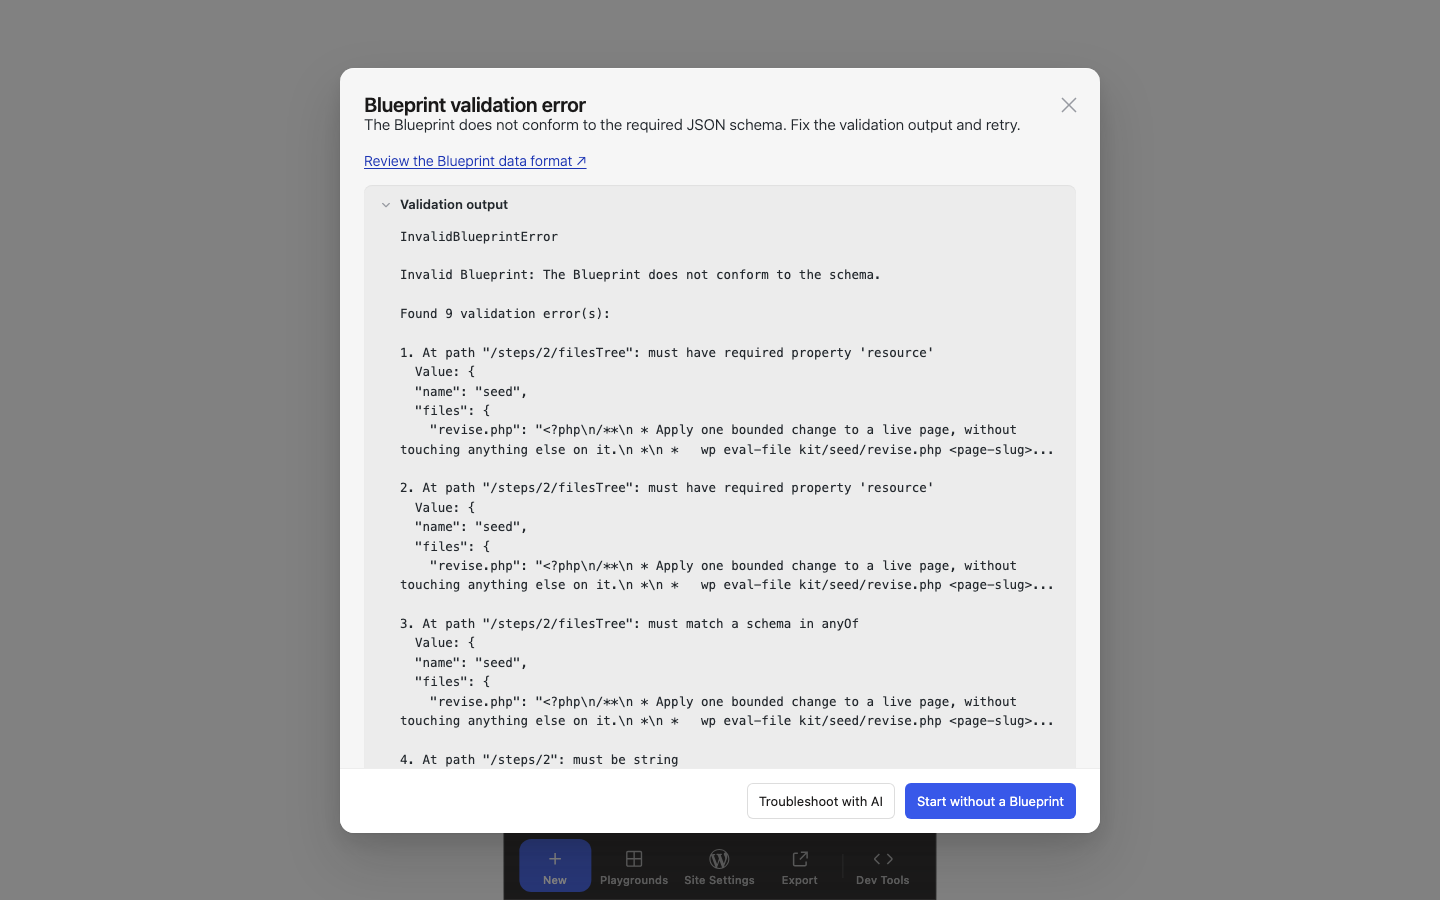
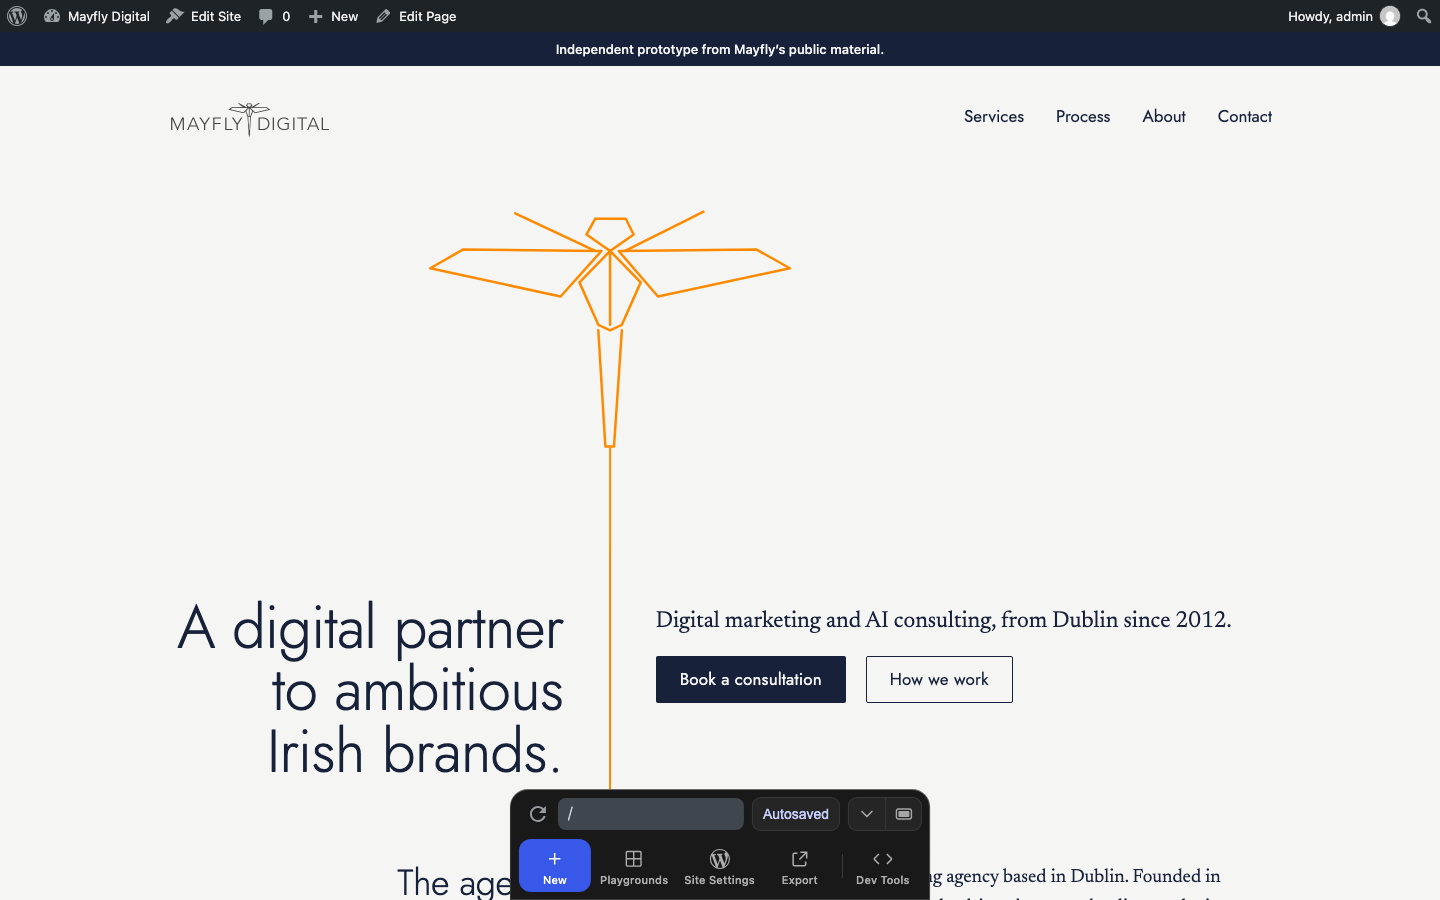
Step 10: QA report, Playground cold start measured, links in README
Claude-Session: https://claude.ai/code/session_01YMaA5HY9wHugsquV1D85d2

diff --git a/qa/REPORT.md b/qa/REPORT.md
@@ -1,0 +1,27 @@
+# QA report, 1 October 2026
+
+Each line: result, what was checked, and its scope. Raw output in the JSON files beside this one.
+
+## Mayfly prototype (`qa/mayfly/`)
+| Result | Check | Scope |
+|---|---|---|
+| Passed | Every rendered sentence is in the sources or in the content map's allowlist; no em dash | `qa_sources.py`, pages `/`, `/services/`, `/contact/` and the 404 page |
+| Passed | Pages answer 200 | three pages, logged in |
+| Passed | Links: 17 distinct links answer 200, without following redirects; every `#fragment` lands on an element | internal and external; mailto checked for syntax only |
+| Not tested | The LinkedIn link | LinkedIn answers 999 to every automated request; opened by hand |
+| Passed | axe-core 4.10, WCAG 2.1 A and AA: 0 violations | three pages at 1440 and 390 px; automated rules only, a part of accessibility |
+| Passed | Keyboard: skip link, then the menu, each with a visible outline | first 12 Tab stops, home page, desktop |
+| Passed | Phone menu opens and its first link leads to a page | 390 px |
+| Passed | Schema: JSON-LD parses, each of its 14 text values is in `01-brief.md` | validity and facts, no claim about search results |
+| Passed | Public Playground link, cold start in a clean profile: 9.1 s Chromium, 9.3 s WebKit, 9.4 s WebKit iPhone 13 profile | `qa/mayfly/playground.json`, one run each, from Paraguay on a fibre line; a slower line will be slower |
+| Failed, then fixed | The first public blueprint was refused by Playground (`writeFiles` needs `"resource": "literal:directory"`) | found by opening the link; fixed in `build_blueprint.py`, re-tested above |
+| Not tested | Screen reader by hand; colour contrast in the editor; print | |
+| Not tested | Page speed | inside Playground PHP runs in the browser, so a score would mean nothing |
+
+## Second client, fictional (`qa/brannock/`)
+| Result | Check | Scope |
+|---|---|---|
+| Passed | Sources: every sentence in `sources/brief.md`, the change request, the editor edit, or the content map | `/` and the 404 page, after the revision |
+| Passed | Links, axe-core at two widths (0 violations), keyboard, schema (10 values) | `qa/brannock/qa-site.json` |
+| Not tested | Phone menu | the site has no menu (one page) |
+| Passed | Revision test, 8 checks | `qa/brannock/revision-test.json` |

diff --git a/README.md b/README.md
@@ -3,8 +3,9 @@
 An independent prototype made from Mayfly Digital's public material (mayflydigital.ie and liamdennehy.com),
 plus the process that produced it, packaged so it can be run again on another client's site.
 
-- **Open the WordPress site** (WordPress Playground, nothing to install, about a minute to start):
-  see the link in the release notes of the latest tag, or load `blueprint.json` in playground.wordpress.net.
+- **Open the WordPress site**: [Mayfly prototype in WordPress Playground](https://playground.wordpress.net/?blueprint-url=https%3A%2F%2Fraw.githubusercontent.com%2Ffred1433%2Fmayfly-ai-wordpress%2Fv1.0%2Fblueprint.json). WordPress runs in your browser,
+  editor included; nothing to install, about 10 seconds to start, nothing is saved on a server.
+  The fictional second client: [Brannock & Daughter in Playground](https://playground.wordpress.net/?blueprint-url=https%3A%2F%2Fraw.githubusercontent.com%2Ffred1433%2Fmayfly-ai-wordpress%2Fv1.0%2Fplayground%2Fbrannock.blueprint.json).
 - **Read how it was made**: [`runs/mayfly-digital-2026-10-01/TRACE.md`](runs/mayfly-digital-2026-10-01/TRACE.md),
   appended and committed during the run. `git log -p` on that file shows what was known at each point.
 - **See it reused**: a second, fictional client through the same kit,

diff --git a/runs/mayfly-digital-2026-10-01/TRACE.md b/runs/mayfly-digital-2026-10-01/TRACE.md
@@ -128,3 +128,13 @@ Times are Dublin time.
   `revise.php` to another section. All eight checks passed: the edit survived, only the requested line changed,
   WordPress kept revisions, a stale request was refused with nothing written, re-seeding left the page alone.
   Report: `qa/brannock/revision-test.json`.
+
+## Step 10. Publish (second build agent, 19:28 to 19:58)
+- Public repository created, `blueprint.json` built by `build_blueprint.py` with the theme pinned to commit
+  `3dabb43`, WordPress 7.1, PHP 8.3.
+- **Opening the link failed**: Playground refused the blueprint (`writeFiles` needs `"resource": "literal:directory"`
+  in its file tree; the local runs never used that step). Fixed in `build_blueprint.py`; the public blueprint then
+  booted in the Playground CLI, then in the browser.
+- `kit/scripts/test_playground.py`: cold start in a clean profile, 9.1 s Chromium, 9.3 s WebKit, 9.4 s WebKit with an
+  iPhone 13 profile. One run each, on a fast line. Screenshots in `qa/mayfly/screens/playground-*.png`.
+- QA summary written to `qa/REPORT.md`. Tagged `v1.0`; the public links load the blueprint from that tag.
